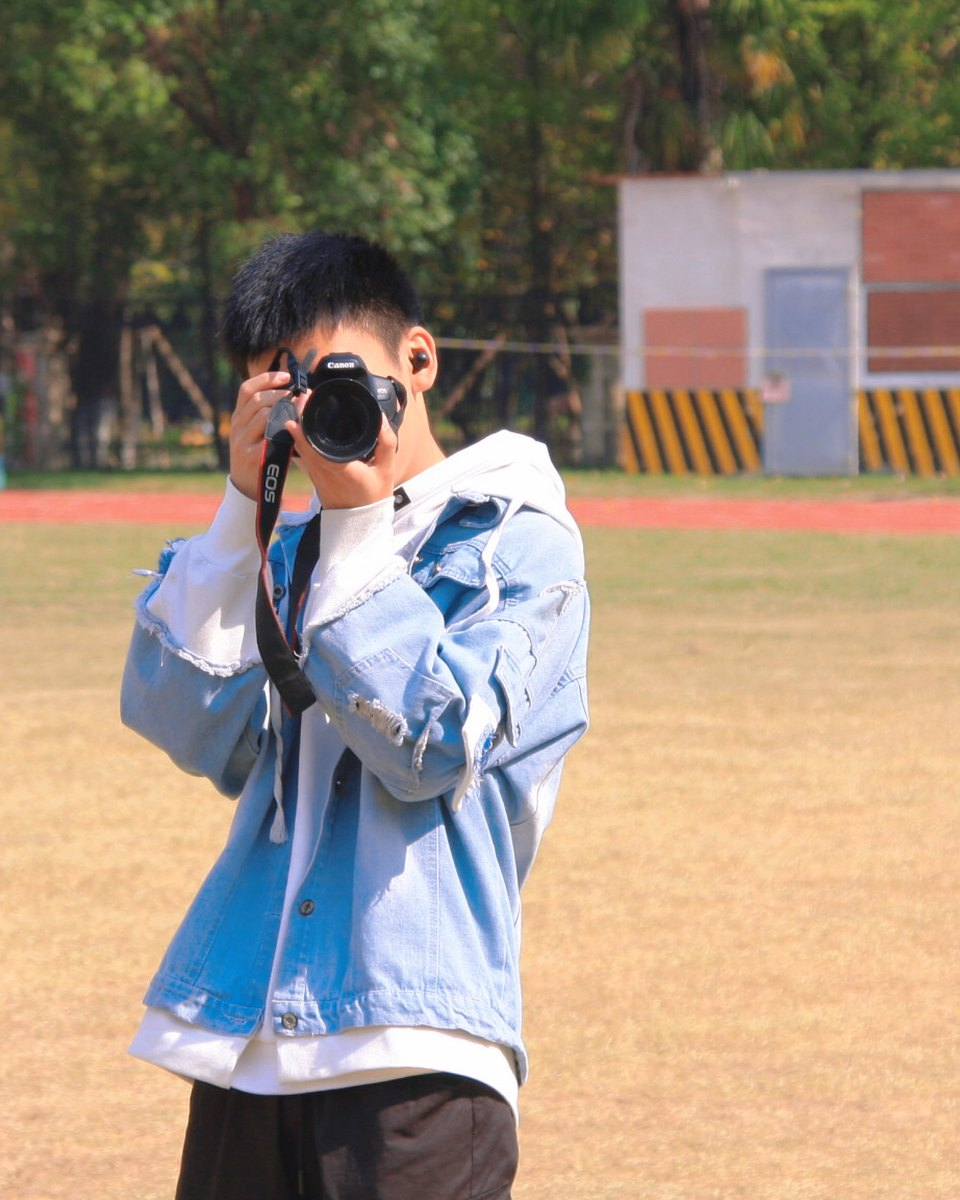
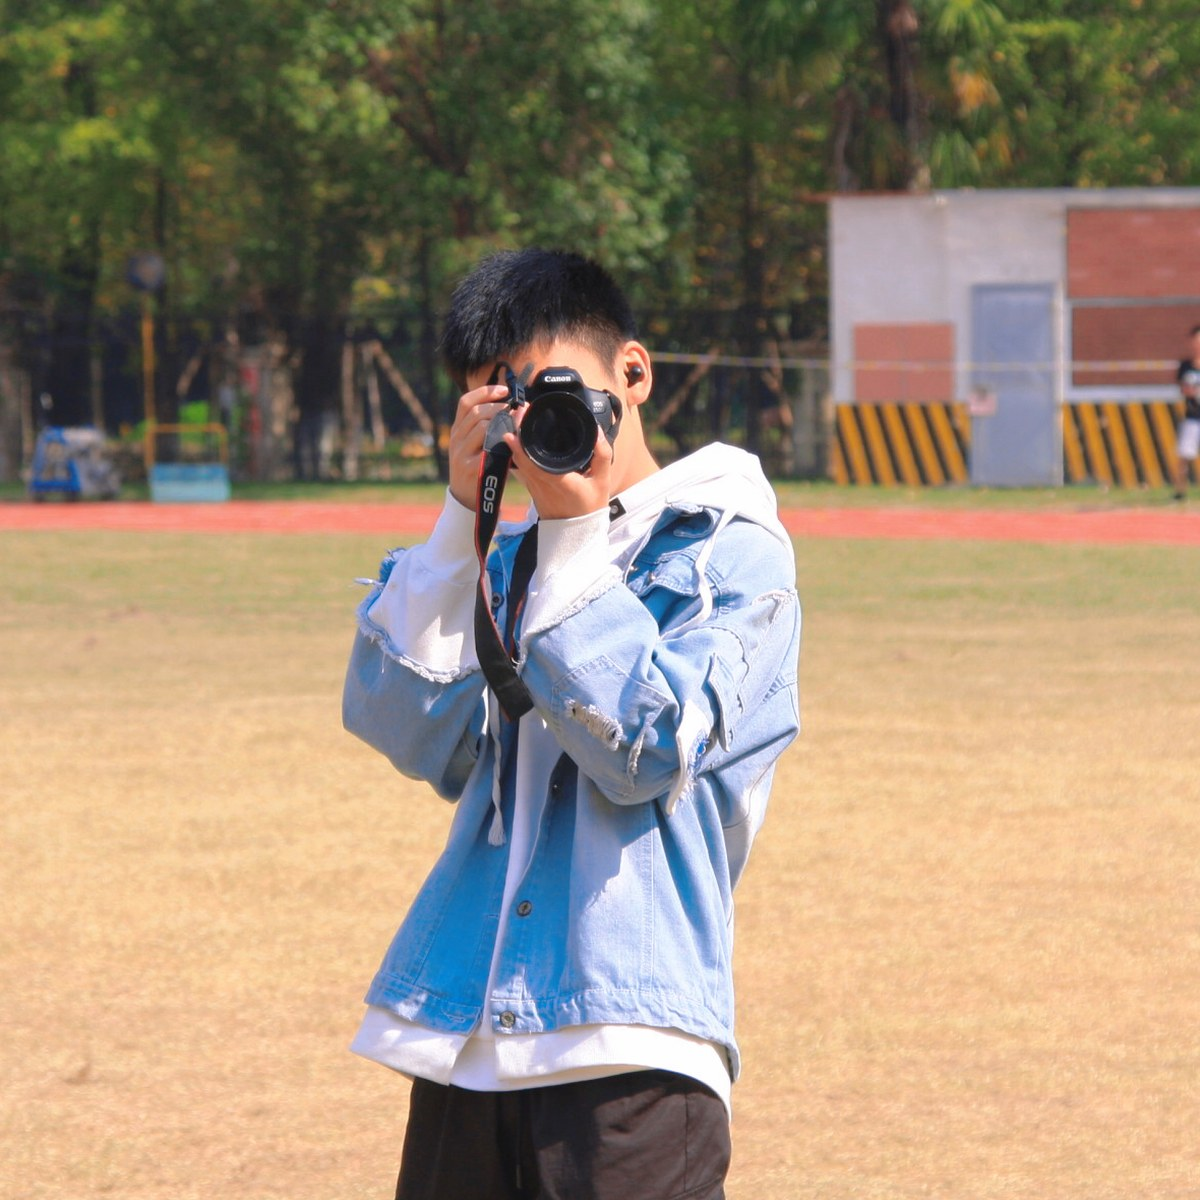
style: Match portrait stack to original square profile photo size

diff --git a/_sass/_portrait.scss b/_sass/_portrait.scss
@@ -10,9 +10,6 @@
   --portrait-glass-hover: rgba(35, 39, 34, 0.55);
 
   width: 100%;
-  max-width: 300px;
-  margin-left: auto;
-  padding: 0.75rem 0.6rem 0;
 }
 
 html[data-theme="dark"] .portrait {
@@ -33,11 +30,11 @@ html[data-theme="dark"] .portrait {
   -webkit-tap-highlight-color: transparent;
   cursor: zoom-in;
 
-  // 4:5 frame
+  // Square frame, same as the original single profile photo.
   &::before {
     content: "";
     display: block;
-    padding-top: calc(125% - 5px);
+    padding-top: 100%;
   }
 
   &:focus-visible {
@@ -50,7 +47,7 @@ html[data-theme="dark"] .portrait {
 .portrait-print {
   position: absolute;
   inset: 0;
-  padding: 9px;
+  padding: 0.45rem;
   background: var(--print-paper);
   border: 1px solid var(--global-divider-color);
   border-radius: 5px;
@@ -323,24 +320,6 @@ html[data-theme="dark"] .portrait-viewer::backdrop {
 
     &--next {
       right: calc(50% - 48px);
-    }
-  }
-}
-
-/* Layout inside the about page: replaces the old single-photo figure. */
-.about-page .profile.has-portrait-stack {
-  width: 300px;
-  max-width: 34%;
-
-  @media (max-width: 575.98px) {
-    float: none !important;
-    width: 100%;
-    max-width: 100%;
-    margin: 0 0 1.25rem;
-
-    .portrait {
-      max-width: 280px;
-      margin: 0 auto;
     }
   }
 }
